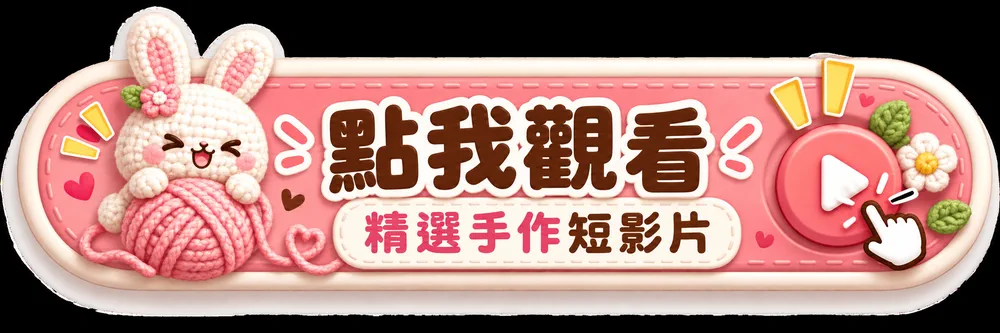
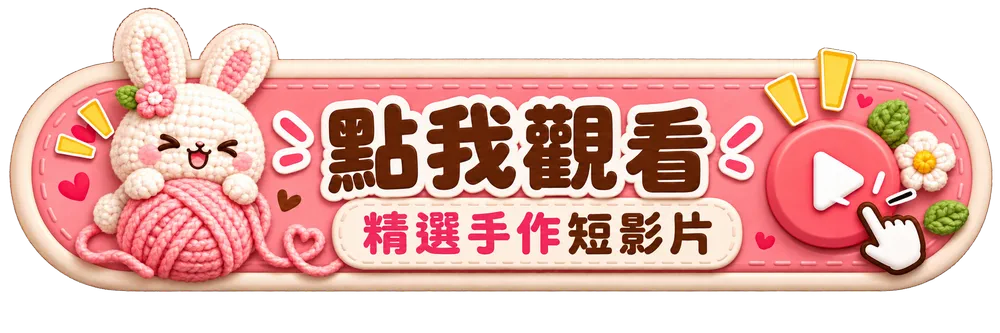
Update short video button animation

diff --git a/index.html b/index.html
@@ -173,9 +173,9 @@
 
     .short-video-jump {
       display: block;
-      width: min(640px, calc(100% - 32px));
+      width: min(170px, calc(100% - 32px));
       aspect-ratio: 3 / 1;
-      margin: 8px auto 14px;
+      margin: 8px 0 14px max(16px, calc((100% - 1120px) / 2 + 16px));
       overflow: hidden;
       border-radius: 18px;
       outline-offset: 4px;
@@ -1632,6 +1632,11 @@
     }
 
     @media (max-width: 640px) {
+      .short-video-jump {
+        width: min(128px, calc(100% - 24px));
+        margin-left: 12px;
+      }
+
       .cart-field-row {
         display: contents;
       }
